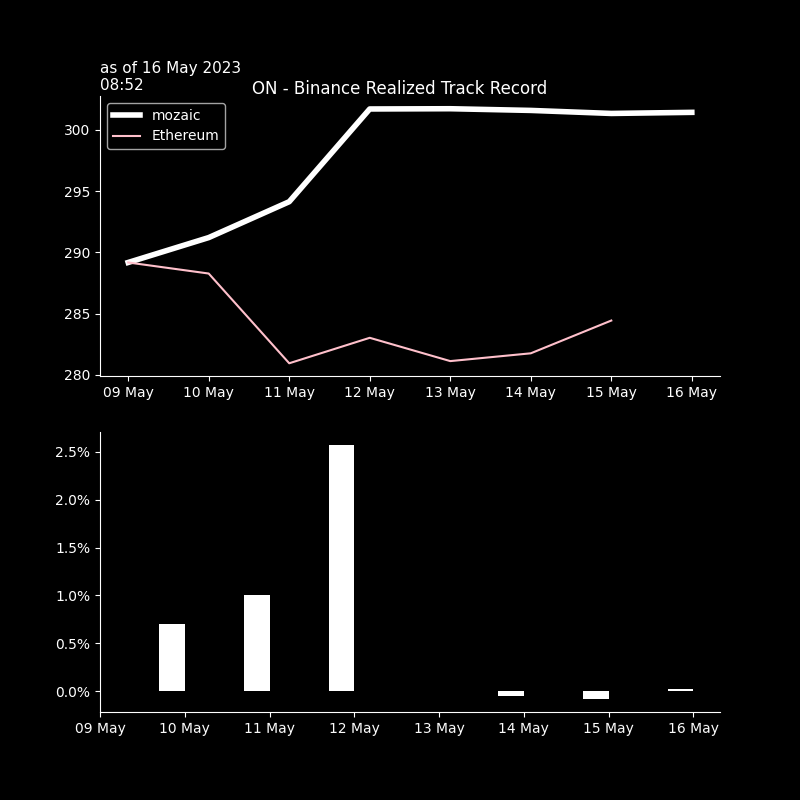
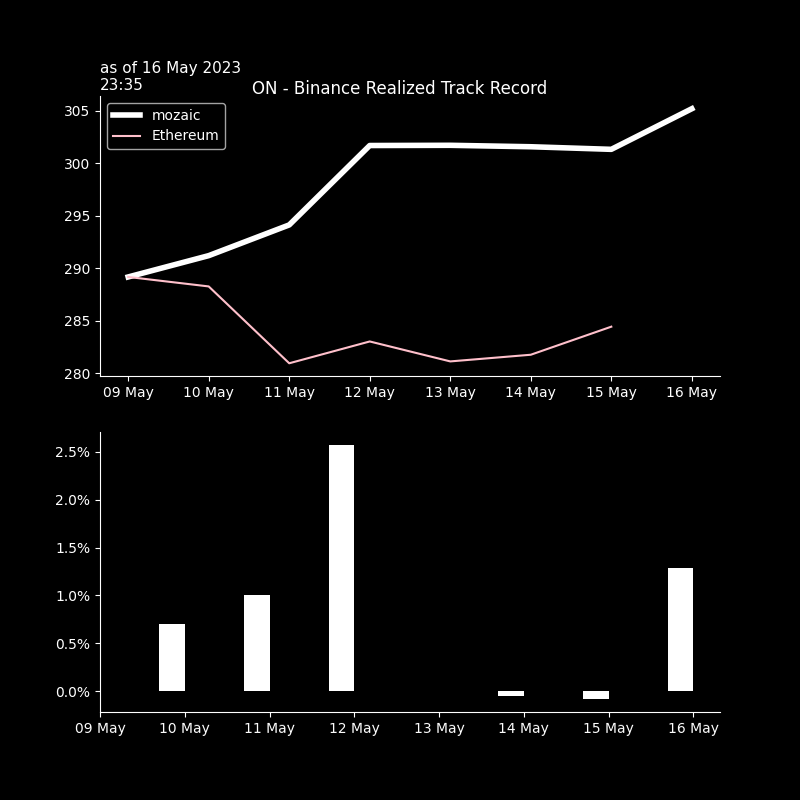
seb_commit

diff --git a/crypto/graphs/bt_trades_book.htmltrade_trades_book.html b/crypto/graphs/bt_trades_book.htmltrade_trades_book.html
@@ -38,52 +38,52 @@
   <tbody>
     <tr>
       <th>XRPUSDT</th>
-      <td>0.423</td>
-      <td>2023-05-16 18:35:25</td>
-      <td>356.500</td>
-      <td>$150.8</td>
-      <td>$0.03</td>
+      <td>0.434</td>
+      <td>2023-05-16 22:33:18</td>
+      <td>-445.500</td>
+      <td>$-193.3</td>
+      <td>$0.04</td>
       <td>2.0</td>
-      <td>0.0</td>
-      <td>0.42275</td>
-      <td>2023-05-16 19:31</td>
-      <td>-0.1</td>
-      <td>-6.0</td>
-      <td>.423</td>
-      <td>-0.0</td>
-      <td>-0.0</td>
-    </tr>
-    <tr>
-      <th>ETHUSDT</th>
-      <td>1823.070</td>
-      <td>2023-05-16 18:34:41</td>
-      <td>0.083</td>
-      <td>$151.3</td>
-      <td>$0.03</td>
-      <td>2.0</td>
-      <td>0.0</td>
-      <td>1822.55500</td>
-      <td>2023-05-16 19:31</td>
-      <td>-0.0</td>
-      <td>-3.0</td>
-      <td>1822.5</td>
-      <td>-0.1</td>
-      <td>-3.0</td>
+      <td>3.9</td>
+      <td>0.43345</td>
+      <td>2023-05-16 23:31</td>
+      <td>0.2</td>
+      <td>13.0</td>
+      <td>.4353</td>
+      <td>-0.6</td>
+      <td>-30.0</td>
     </tr>
     <tr>
       <th>BTCUSDT</th>
-      <td>27003.800</td>
-      <td>2023-05-16 18:33:37</td>
-      <td>0.006</td>
-      <td>$162.0</td>
-      <td>$0.03</td>
+      <td>27003.900</td>
+      <td>2023-05-16 22:34:51</td>
+      <td>-0.007</td>
+      <td>$-189.0</td>
+      <td>$0.04</td>
       <td>2.0</td>
       <td>0.0</td>
-      <td>27005.65000</td>
-      <td>2023-05-16 19:31</td>
-      <td>0.0</td>
-      <td>1.0</td>
-      <td>27000.4</td>
+      <td>26980.85000</td>
+      <td>2023-05-16 23:31</td>
+      <td>0.2</td>
+      <td>8.0</td>
+      <td>27009.9</td>
+      <td>-0.0</td>
+      <td>-2.0</td>
+    </tr>
+    <tr>
+      <th>ETHUSDT</th>
+      <td>1825.230</td>
+      <td>2023-05-16 22:34:55</td>
+      <td>-0.083</td>
+      <td>$-151.5</td>
+      <td>$0.03</td>
+      <td>2.0</td>
+      <td>0.2</td>
+      <td>1823.48500</td>
+      <td>2023-05-16 23:31</td>
+      <td>0.1</td>
+      <td>9.0</td>
+      <td>1825.47</td>
       <td>-0.0</td>
       <td>-1.0</td>
     </tr>

diff --git a/crypto/graphs/bt_trades_pnlD_recap.htmltrade_trades_pnlD_recap.html b/crypto/graphs/bt_trades_pnlD_recap.htmltrade_trades_pnlD_recap.html
@@ -1,7 +1,7 @@
 <table border="1" class="dataframe">
   <thead>
     <tr style="text-align: right;">
-      <th>16 May 19:35</th>
+      <th>16 May 23:35</th>
       <th>realizedPnl</th>
       <th>PnLvsArrival</th>
       <th>PnLvsLast</th>
@@ -10,21 +10,21 @@
   <tbody>
     <tr>
       <th>in$</th>
-      <td>0.0</td>
-      <td>-0.1</td>
-      <td>-0.1</td>
+      <td>4.1</td>
+      <td>0.6</td>
+      <td>-0.6</td>
     </tr>
     <tr>
-      <th>in bp 464 traded</th>
-      <td>0 bp</td>
-      <td>-3 bp</td>
-      <td>-2 bp</td>
+      <th>in bp 533 traded</th>
+      <td>77 bp</td>
+      <td>10 bp</td>
+      <td>-12 bp</td>
     </tr>
     <tr>
-      <th>in bp 301 AUMs</th>
-      <td>0 bp</td>
-      <td>-4 bp</td>
-      <td>-2 bp</td>
+      <th>in bp 305 AUMs</th>
+      <td>134 bp</td>
+      <td>18 bp</td>
+      <td>-21 bp</td>
     </tr>
   </tbody>
 </table>

diff --git a/crypto/graphs/bt_trades_recap.htmltrade_trades_recap.html b/crypto/graphs/bt_trades_recap.htmltrade_trades_recap.html
@@ -9,32 +9,32 @@
   <tbody>
     <tr>
       <th>as of</th>
-      <td>16May 18:33&gt;&gt;18:35</td>
+      <td>16May 22:33&gt;&gt;22:34</td>
       <td>#trades: 3</td>
     </tr>
     <tr>
       <th>trade net</th>
-      <td>+464.0</td>
-      <td>+153.9%</td>
+      <td>-534.0</td>
+      <td>-175.0%</td>
     </tr>
     <tr>
       <th>trade gross</th>
-      <td>+464.0</td>
-      <td>+153.9%</td>
+      <td>+534.0</td>
+      <td>+175.0%</td>
     </tr>
     <tr>
       <th>BUY</th>
-      <td>+464.0</td>
-      <td>+153.9%</td>
-    </tr>
-    <tr>
-      <th>SELL</th>
       <td>+0.0</td>
       <td>+0.0%</td>
     </tr>
     <tr>
+      <th>SELL</th>
+      <td>-534.0</td>
+      <td>-175.0%</td>
+    </tr>
+    <tr>
       <th>fees</th>
-      <td>$ 0.093</td>
+      <td>$ 0.107</td>
       <td>2.0bp</td>
     </tr>
   </tbody>
